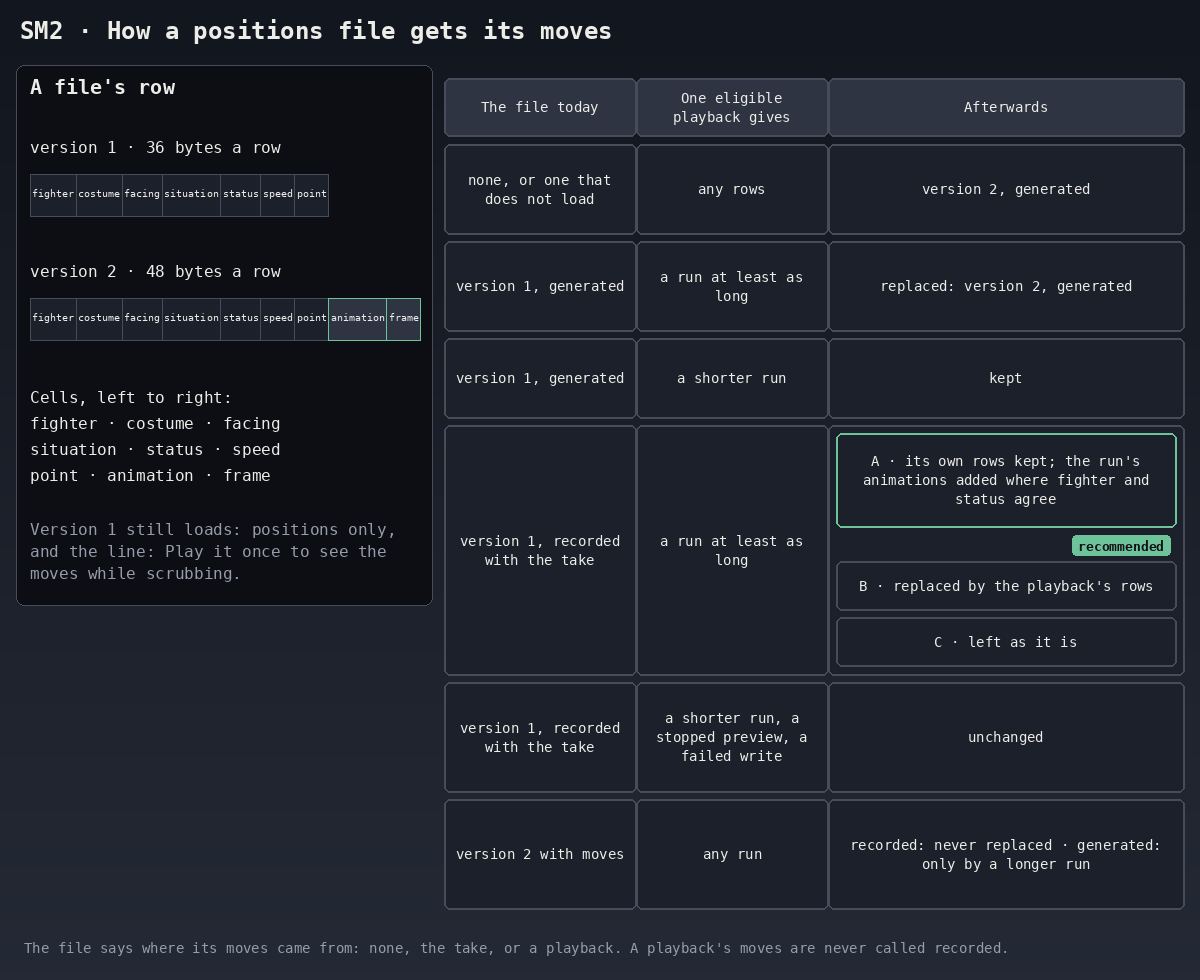
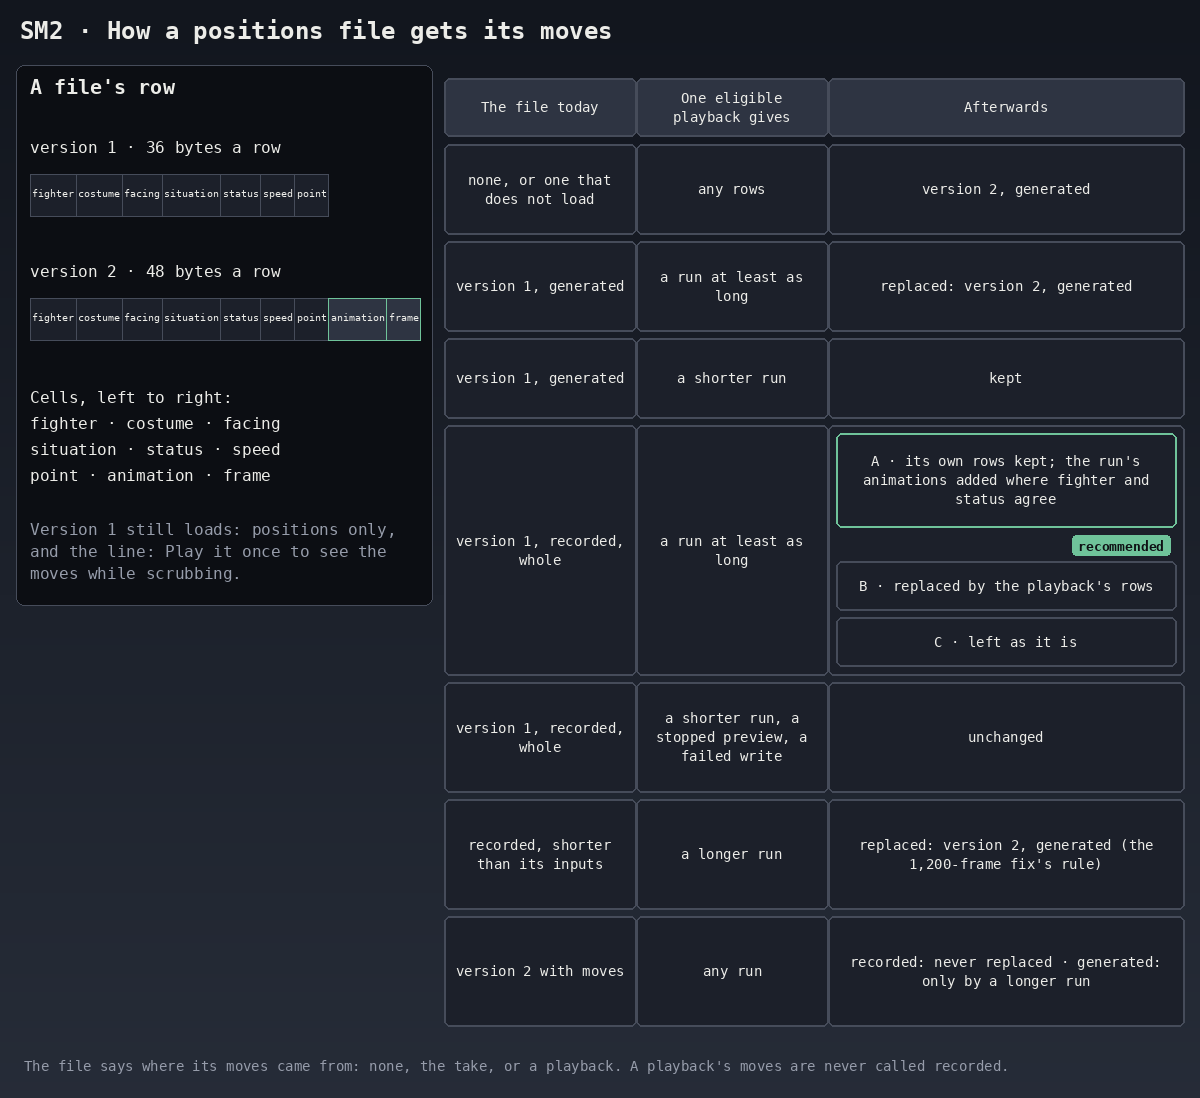
Scrub-moves proposal: short recorded files heal by the 1,200-frame rule; the capture file is unchanged
The section text and two pictures now reflect the new rules.
Nothing is built.

diff --git a/tools/render_scrub_moves.py b/tools/render_scrub_moves.py
@@ -129,8 +129,9 @@ def sm2():
         ("none, or one that does not load", "any rows", "version 2, generated", 90),
         ("version 1, generated", "a run at least as long", "replaced: version 2, generated", 90),
         ("version 1, generated", "a shorter run", "kept", 80),
-        ("version 1, recorded with the take", "a run at least as long", None, 250),
-        ("version 1, recorded with the take", "a shorter run, a stopped preview, a failed write", "unchanged", 110),
+        ("version 1, recorded, whole", "a run at least as long", None, 250),
+        ("version 1, recorded, whole", "a shorter run, a stopped preview, a failed write", "unchanged", 110),
+        ("recorded, shorter than its inputs", "a longer run", "replaced: version 2, generated (the 1,200-frame fix's rule)", 110),
         ("version 2 with moves", "any run", "recorded: never replaced · generated: only by a longer run", 110),
     ]
     y = 144
@@ -147,8 +148,8 @@ def sm2():
         else:
             boxed(c, edges[2], y, edges[3], y + height, right)
         y += height + 7
-    paragraph(c, 24, 940, "The file says where its moves came from: none, the take, or a playback. A playback's moves are never called recorded.", 1150)
-    c.save("scrub-moves-SM2-file-upgrade", 980)
+    paragraph(c, 24, 1058, "The file says where its moves came from: none, the take, or a playback. A playback's moves are never called recorded.", 1150)
+    c.save("scrub-moves-SM2-file-upgrade", 1098)
 
 
 def sm3():
@@ -230,23 +231,24 @@ def sm4():
 def sm5():
     c = Canvas(W, 860)
     title(c, "SM5 · A Replay window capture itself")
-    ay = d.panel(c, 16, 65, 594, 677, "A · Not in this change", rec=True, tag_below=True)
-    by = d.panel(c, 606, 65, 1184, 677, "B · Captures keep the animation too", tag_below=True)
+    ay = d.panel(c, 16, 65, 594, 735, "A · Not in this change", rec=True, tag_below=True)
+    by = d.panel(c, 606, 65, 1184, 735, "B · Captures keep the animation too", tag_below=True)
     aend = vertical_flow(c, 32, 578, ay + 8, [
-        "a capture's frame: inputs and state, no animation",
+        "a capture's frame: inputs and state, no animation (fresh or reopened)",
         "scrub the capture: positions, as today",
         "A saves a macro",
         "play it once",
         "scrub the macro: the moves",
     ], height=72, gap=25)
-    paragraph(c, 34, aend + 24, "No change to the capture format.", 530, "s")
+    y = paragraph(c, 34, aend + 24, "No change to the capture file (TMRCAP01, schema 1).", 530, "s") + 12
+    paragraph(c, 34, y, "A fighter the playback does not have keeps positions only.", 530, "s")
     bend = vertical_flow(c, 622, 1168, by + 8, [
         "every captured frame of every fighter gains animation and frame",
         "scrub the capture: the moves at once",
     ], height=82, gap=28)
     y = paragraph(c, 624, bend + 30, "The capture format changes.", 530, "s") + 12
     paragraph(c, 624, y, "More memory in every match with Replay capture On.", 530, "s")
-    c.save("scrub-moves-SM5-captures", 703)
+    c.save("scrub-moves-SM5-captures", 760)
 
 
 if __name__ == "__main__":

diff --git a/docs/DECISIONS.md b/docs/DECISIONS.md
@@ -2210,10 +2210,10 @@ The operator, 2026-11-26 about 12:41Z, on install 6 (relayed by tr-primary-2, in
 | | Choice | Recommended |
 | --- | --- | --- |
 | SM1 | What a shown frame draws | **A, the animation and its frame, and nothing else.** A row also keeps the fighter's animation (the game's 40-bit name) and its frame. On a shown frame the held fighter is given that animation at that frame, at speed 0, while its scripts sleep. The status is not forced: a status change runs the game's own code for that status, which is where articles, effects and movement come from. B forces the status too. |
-| SM2 | How a positions file gets its moves | **A, version 2 of the file, filled by use.** Record, a crop and a playback write version 2 (48 bytes a row, was 36). A version 1 file still loads and shows positions only, with the line "Play it once to see the moves while scrubbing.". One eligible playback upgrades it: a generated file is replaced by a run at least as long; a file recorded with the take keeps its own rows and gets the run's animations, on the frames where the run's fighter and status equal the recorded ones. A shorter run, a stopped preview or a failed write changes nothing. B replaces a recorded file by the playback's. C leaves recorded files as they are. |
+| SM2 | How a positions file gets its moves | **A, version 2 of the file, filled by use.** Record, a crop and a playback write version 2 (48 bytes a row, was 36). A version 1 file still loads and shows positions only, with the line "Play it once to see the moves while scrubbing.". One eligible playback upgrades it: a generated file is replaced by a run at least as long; a whole file recorded with the take keeps its own rows and gets the run's animations, on the frames where the run's fighter and status equal the recorded ones. A shorter run, a stopped preview or a failed write changes nothing. A recorded file that is shorter than its inputs follows the rule of the 1,200-frame fix (2026-11-26): a longer run replaces it, as generated. B replaces a whole recorded file by the playback's. C leaves whole recorded files as they are. |
 | SM3 | Recorded fighter or the one you are on | **A, a toggle for each fighter, default the one you are on.** Player 1 and the CPU each switch between the fighter the take recorded for them and the fighter they were when the editor opened, on a saved macro and on a capture alike, through the roster's existing loader. Moves are drawn only on the recorded fighter; on another one the scrub shows positions, as today, and the strip says which key switches. The fighters stay as toggled when the editor closes. B puts both back on close. |
 | SM4 | The keys | **A, ZL + L for Player 1 and ZL + R for the CPU** (ZR works as ZL does; Z on a GameCube controller). Left is Player 1 and right is the CPU, as on the damage display. The strip names both fighters and the keys. B opens a two-row pop-up, like Fighter Mismatch, and changes them there. |
-| SM5 | A Replay window capture itself | **A, not in this change.** A capture's own frames keep no animation, so scrubbing a capture shows positions as today; the macro saved from it gets its moves from one playback. B adds the animation to every captured frame of every fighter, which changes the capture format and costs memory in every match with Replay capture On. |
+| SM5 | A Replay window capture itself | **A, not in this change.** A capture's own frames keep no animation, and its file (`TMRCAP01`, schema 1, 44 bytes a fighter a frame) is not changed. So scrubbing a capture, fresh or reopened from its file, shows positions as today. A macro saved from it keeps the capture's own rows, and one playback adds the animations under SM2's rule: only on frames whose fighter and status equal the captured ones. A fighter the playback does not have, such as the match's other fighter, keeps positions only. B adds the animation to every captured frame of every fighter, which changes the capture format and costs memory in every match with Replay capture On. |
 
 ![SM1: what a shown frame draws](decisions/scrub-moves/scrub-moves-SM1-shown-frame.png)
 
@@ -2233,7 +2233,9 @@ The operator, 2026-11-26 about 12:41Z, on install 6 (relayed by tr-primary-2, in
   and the hold reports the fighter held with its scripts asleep;
 - kept each frame by reading `motion_kind` and `frame` back and setting again only when they differ;
 - on release, in this order: a plain animation back (`wait` on the ground, `fall` in the air, speed 1), then the
-  hold's own restore, then the scripts wake. A fighter is never woken with an attack's animation on it.
+  hold's own restore, then the scripts wake. A fighter is never woken with an attack's animation on it. This happens
+  in the fighter frame that lets the body go, before that frame reports the release (the report the next build's
+  preview fix adds). A fighter switch asks for its load only after that report.
 
 **Not established, and what settles it.** Two game facts decide the calls above, and neither can be read from the
 code. A diagnostic-only probe on a running Eden settles both before the feature is built on them:
